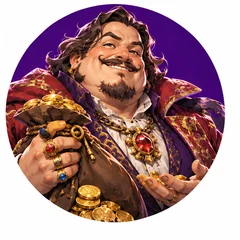
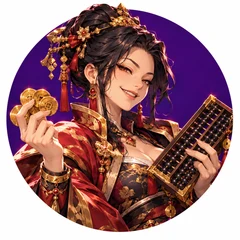
art: 商人の顔絵を女性の商人に描き直す（自分の顔と似ていて VS 画面で紛らわしかった）。名前はコガネ

diff --git a/src/ui/art.ts b/src/ui/art.ts
@@ -72,7 +72,7 @@ const FOE_KEY: Record<string, string> = {
 };
 /** 相手デッキの使い手（顔絵に合わせた名前と肩書き）。ライバルズのように、相手を人物として見せる。カード名と重ねない。 */
 const FOE_PERSONA: Record<string, { name: string; title: string }> = {
-  商人: { name: 'マモン', title: '大商人' },
+  商人: { name: 'コガネ', title: '大商人' },
   毒: { name: 'ヴィオラ', title: '毒の魔女' },
   巨人: { name: 'ガンド', title: '巨人の親方' },
   連撃: { name: 'アカネ', title: '二刀の剣士' },
